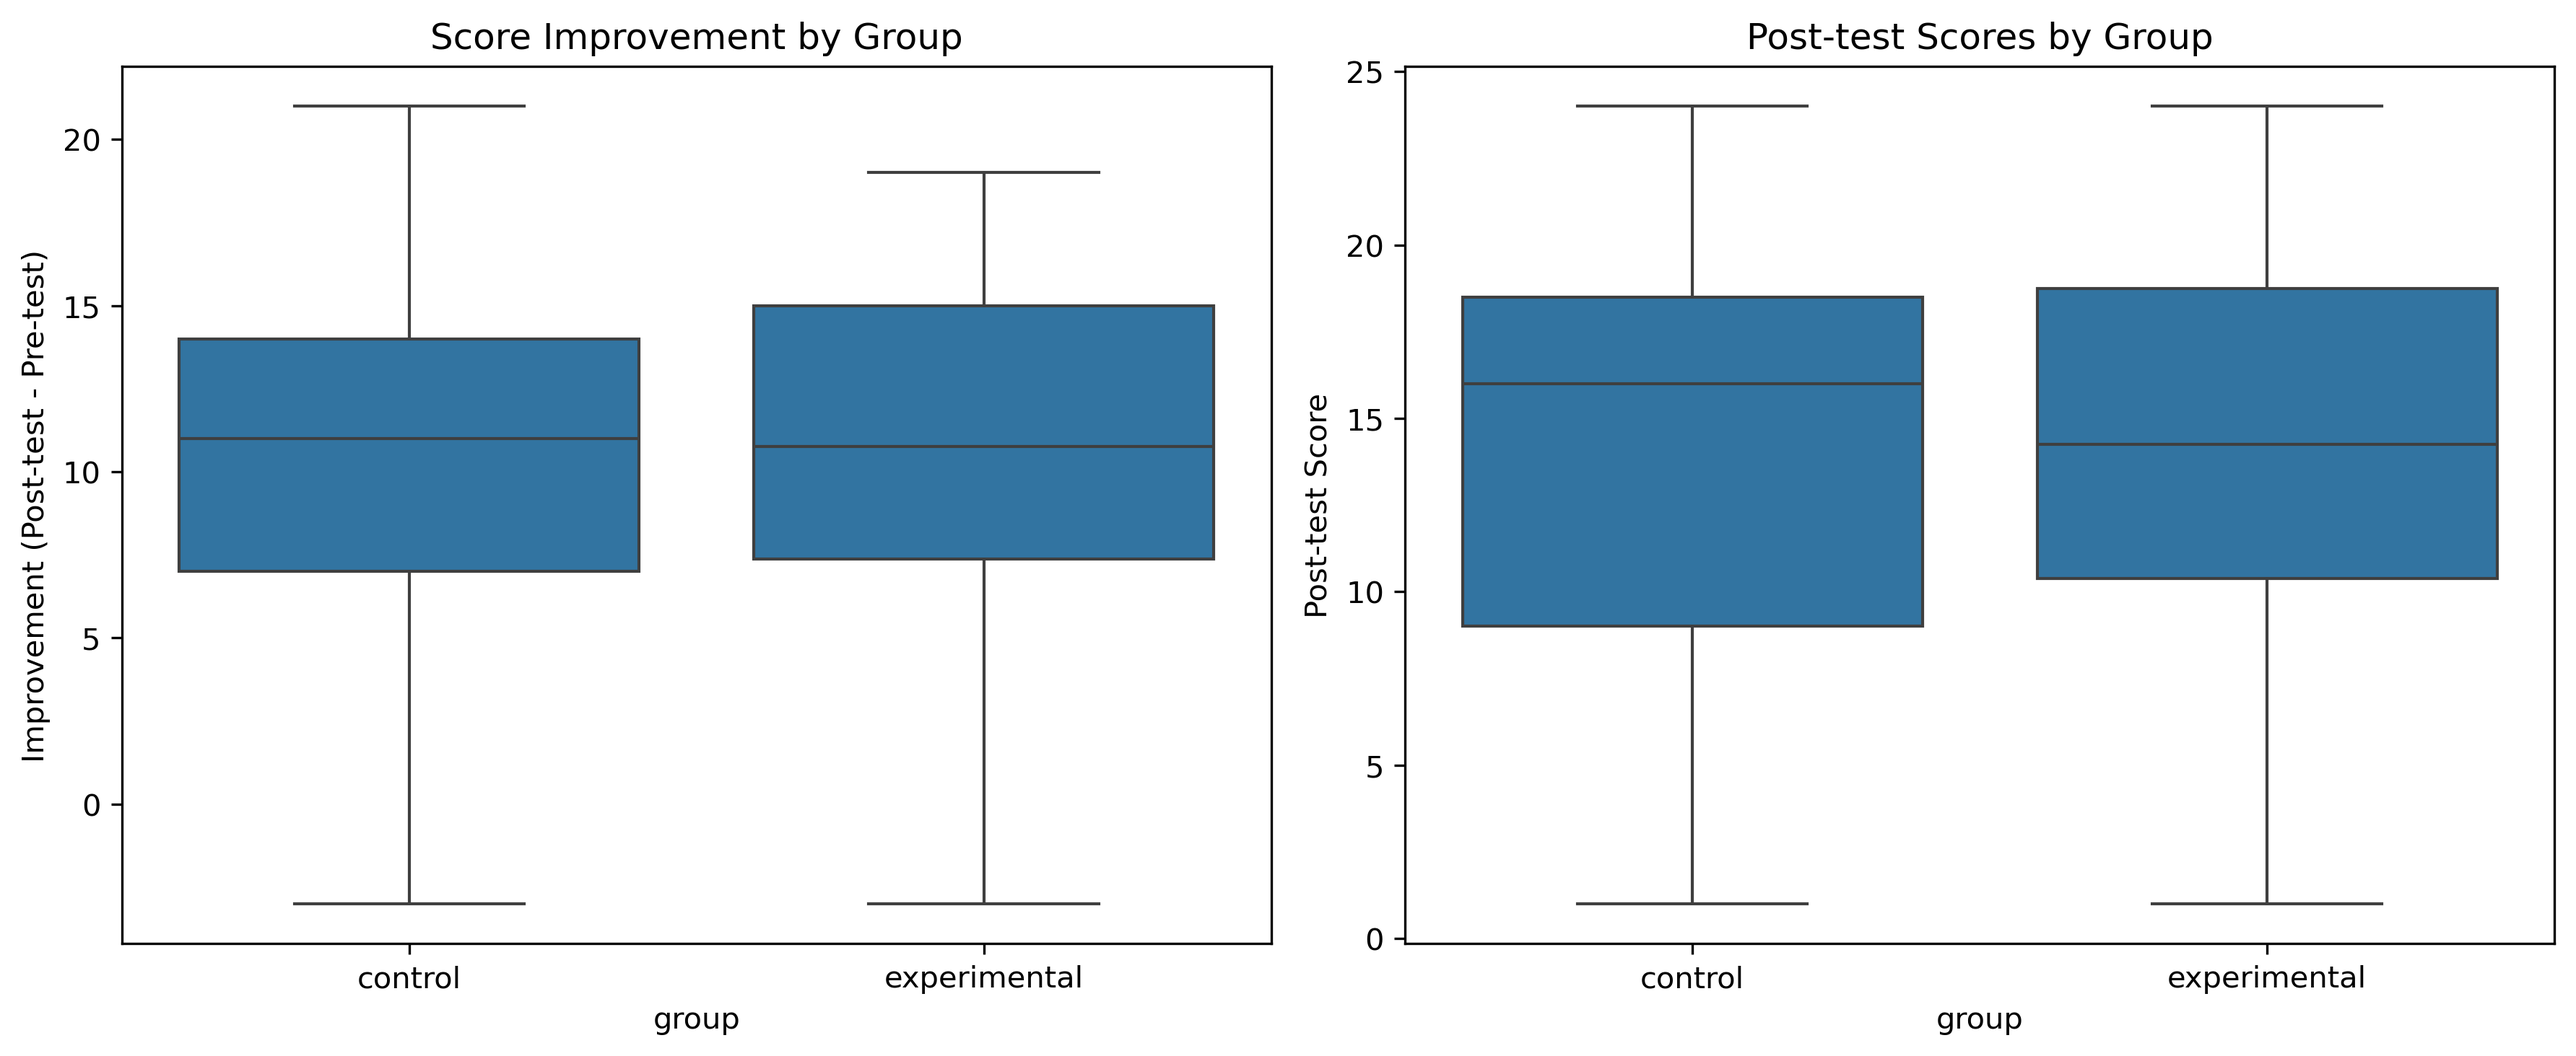
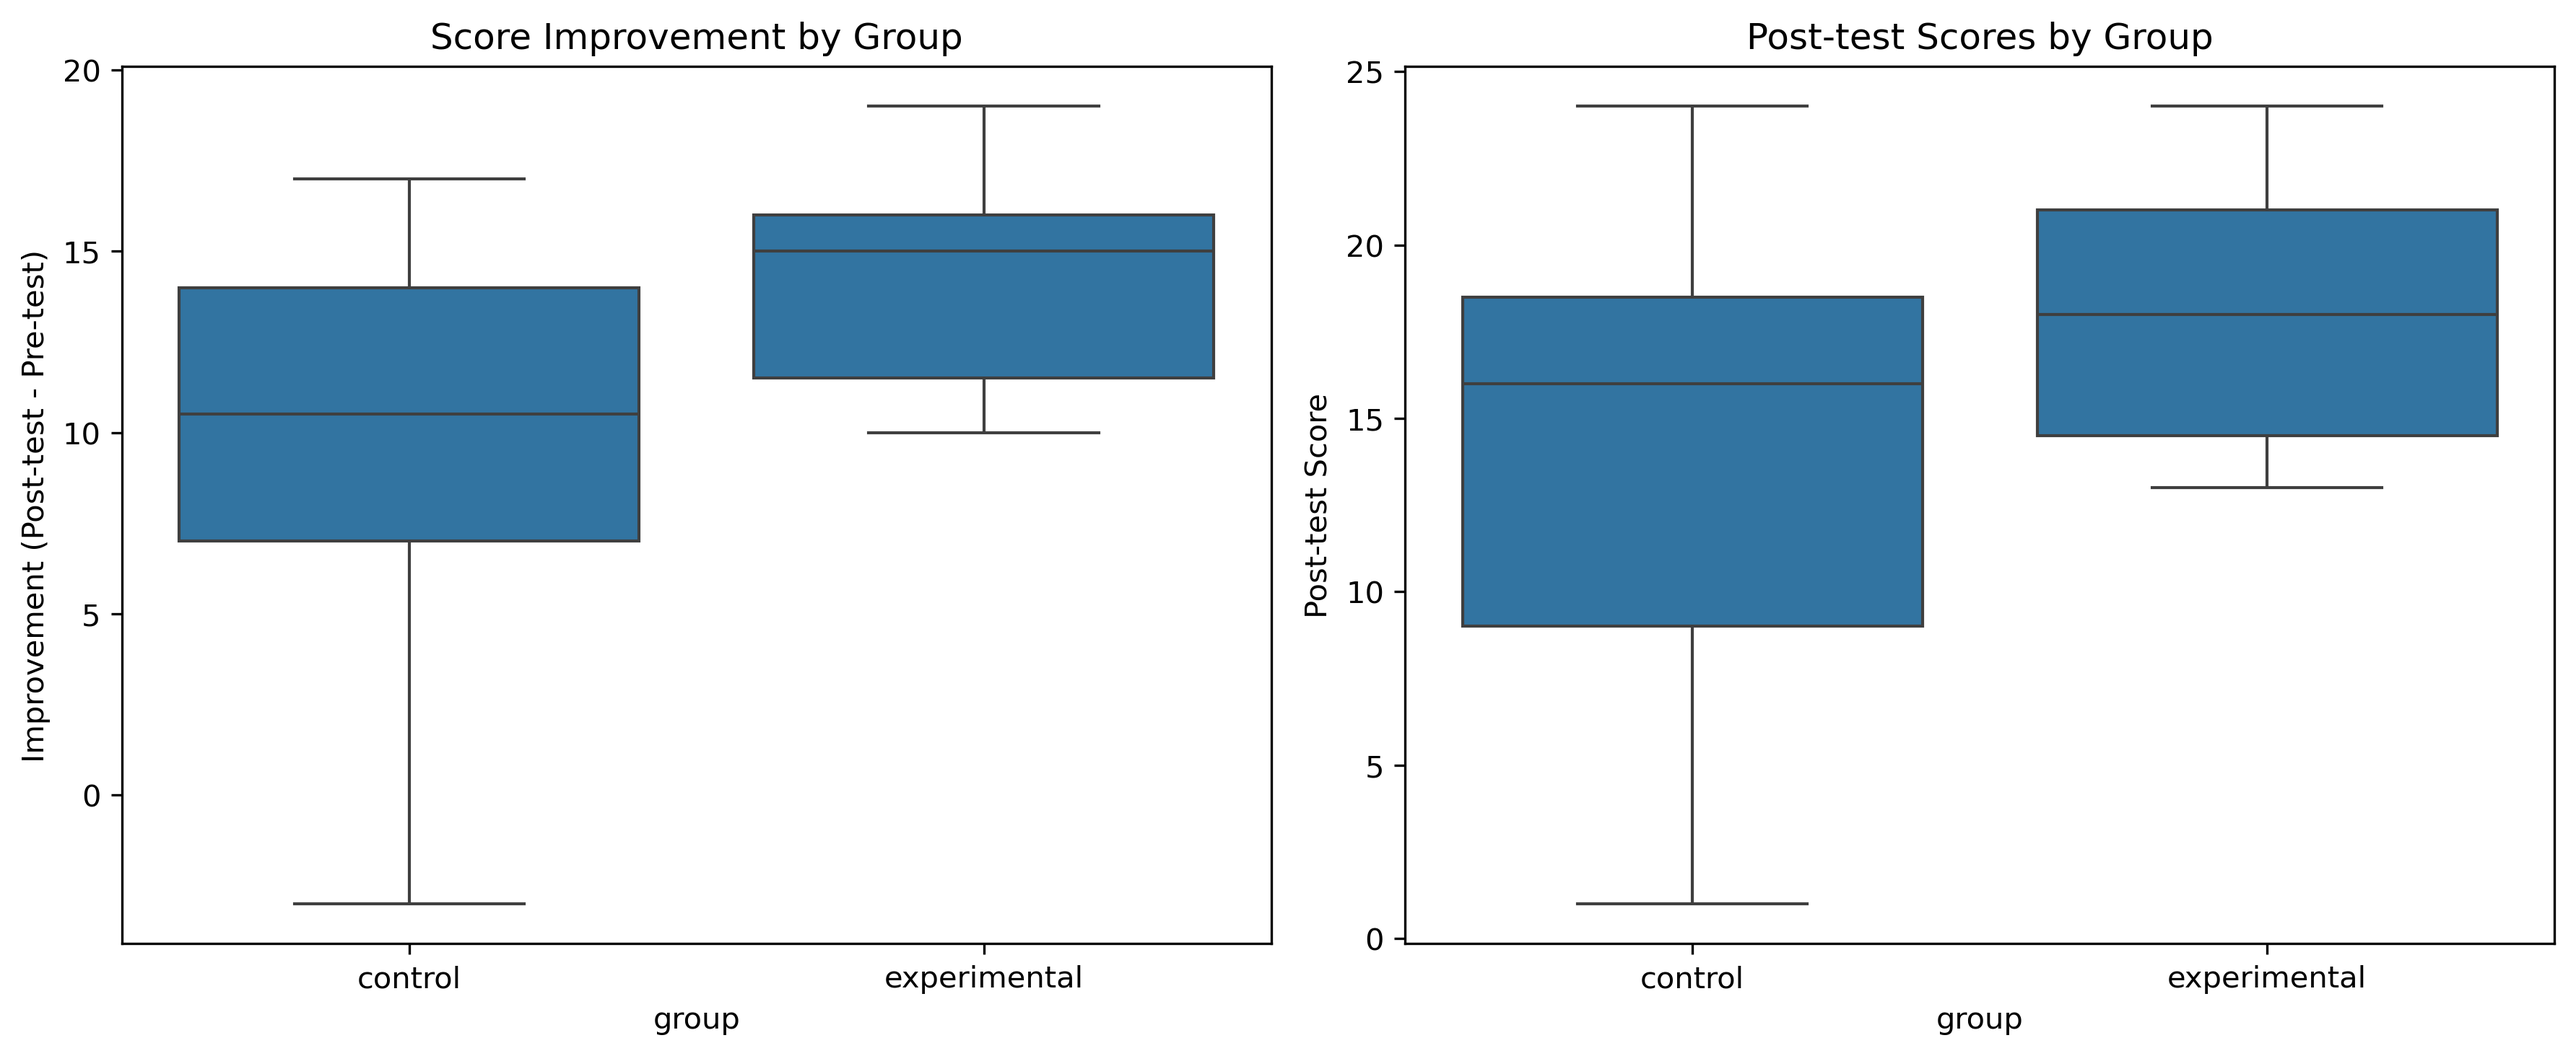
Update analysis scripts, data files, and README with final statistical results

diff --git a/analysis/statistical_analysis.py b/analysis/statistical_analysis.py
@@ -56,54 +56,54 @@ print(f"Pre-test:  {experimental['pre_test_score'].mean():.2f} ± {experimental[
 print(f"Post-test: {experimental['post_test_score'].mean():.2f} ± {experimental['post_test_score'].std():.2f}")
 print(f"Improvement: {experimental['score_improvement'].mean():.2f} ± {experimental['score_improvement'].std():.2f}")
 
-print("\n=== NORMALITY TESTS (Shapiro-Wilk) ===")
-# Test normality of improvements
-control_improvement_norm = stats.shapiro(control['score_improvement'])
-exp_improvement_norm = stats.shapiro(experimental['score_improvement'])
-
-print(f"Control improvement normality: p-value = {control_improvement_norm.pvalue:.4f}")
-print(f"Experimental improvement normality: p-value = {exp_improvement_norm.pvalue:.4f}")
-
 print("\n=== INDEPENDENT T-TESTS ===")
-# T-test for post-test scores
-post_test_t = stats.ttest_ind(control['post_test_score'], experimental['post_test_score'])
-print(f"Post-test scores t-test: t = {post_test_t.statistic:.3f}, p = {post_test_t.pvalue:.4f}")
+# Clean arrays (drop NaNs) for post-test scores and improvements
+post_ctrl = control['post_test_score'].astype(float).dropna()
+post_exp  = experimental['post_test_score'].astype(float).dropna()
+imp_ctrl  = control['score_improvement'].astype(float).dropna()
+imp_exp   = experimental['score_improvement'].astype(float).dropna()
 
-# T-test for improvements
-improvement_t = stats.ttest_ind(control['score_improvement'], experimental['score_improvement'])
-print(f"Improvement t-test: t = {improvement_t.statistic:.3f}, p = {improvement_t.pvalue:.4f}")
+# === Welch's t-tests (robust to unequal variances & sizes) ===
+# Post-test
+t_post, p_post = stats.ttest_ind(post_exp, post_ctrl, equal_var=False, nan_policy='omit')
+# Welch-Satterthwaite df for post-test
+s2c, s2e = post_ctrl.var(ddof=1), post_exp.var(ddof=1)
+nc, ne   = len(post_ctrl), len(post_exp)
+se_post  = np.sqrt(s2c/nc + s2e/ne)
+df_post  = (s2c/nc + s2e/ne)**2 / ((s2c**2)/(nc**2*(nc-1)) + (s2e**2)/(ne**2*(ne-1)))
+print(f"Post-test (Welch) t({df_post:.2f}) = {t_post:.3f}, p = {p_post:.4f}")
+
+# Improvements
+t_imp, p_imp = stats.ttest_ind(imp_exp, imp_ctrl, equal_var=False, nan_policy='omit')
+s2c_i, s2e_i = imp_ctrl.var(ddof=1), imp_exp.var(ddof=1)
+nc_i, ne_i   = len(imp_ctrl), len(imp_exp)
+se_imp       = np.sqrt(s2c_i/nc_i + s2e_i/ne_i)
+df_imp       = (s2c_i/nc_i + s2e_i/ne_i)**2 / ((s2c_i**2)/(nc_i**2*(nc_i-1)) + (s2e_i**2)/(ne_i**2*(ne_i-1)))
+print(f"Improvement (Welch) t({df_imp:.2f}) = {t_imp:.3f}, p = {p_imp:.4f}")
 
 print("\n=== EFFECT SIZES (Cohen's d) ===")
-def cohens_d(group1, group2):
-    """Calculate Cohen's d for effect size"""
-    n1, n2 = len(group1), len(group2)
-    var1, var2 = np.var(group1, ddof=1), np.var(group2, ddof=1)
-    pooled_std = np.sqrt(((n1-1)*var1 + (n2-1)*var2) / (n1 + n2 - 2))
-    return (np.mean(group1) - np.mean(group2)) / pooled_std
+# Cohen's d (pooled SD) using cleaned arrays
+pooled_post = np.sqrt((post_ctrl.var(ddof=1) + post_exp.var(ddof=1)) / 2)
+post_d = (post_exp.mean() - post_ctrl.mean()) / pooled_post
+pooled_imp = np.sqrt((imp_ctrl.var(ddof=1) + imp_exp.var(ddof=1)) / 2)
+imp_d  = (imp_exp.mean() - imp_ctrl.mean()) / pooled_imp
+print(f"Post-test effect size (d): {post_d:.3f}")
+print(f"Improvement effect size (d): {imp_d:.3f}")
 
-# Effect sizes
-post_test_d = cohens_d(experimental['post_test_score'], control['post_test_score'])
-improvement_d = cohens_d(experimental['score_improvement'], control['score_improvement'])
+print("\n=== CONFIDENCE INTERVALS (Welch) ===")
+alpha = 0.05
+# 95% CI for mean difference (exp - ctrl)
+from scipy.stats import t as tdist
 
-print(f"Post-test effect size (d): {post_test_d:.3f}")
-print(f"Improvement effect size (d): {improvement_d:.3f}")
+# Post-test CI
+md_post = post_exp.mean() - post_ctrl.mean()
+ci_half_post = tdist.ppf(1 - alpha/2, df_post) * se_post
+print(f"95% CI for post-test difference: ({md_post - ci_half_post:.3f}, {md_post + ci_half_post:.3f})")
 
-print("\n=== CONFIDENCE INTERVALS ===")
-# 95% CI for mean difference in improvements
-def mean_ci(group1, group2, alpha=0.05):
-    n1, n2 = len(group1), len(group2)
-    mean_diff = np.mean(group1) - np.mean(group2)
-    se = np.sqrt(np.var(group1, ddof=1)/n1 + np.var(group2, ddof=1)/n2)
-    t_critical = stats.t.ppf(1 - alpha/2, n1 + n2 - 2)
-    return mean_diff - t_critical * se, mean_diff + t_critical * se
-
-improvement_ci = mean_ci(experimental['score_improvement'], control['score_improvement'])
-print(f"95% CI for improvement difference: ({improvement_ci[0]:.3f}, {improvement_ci[1]:.3f})")
-
-print("\n=== NON-PARAMETRIC TEST (Mann-Whitney U) ===")
-# If data isn't normal, use Mann-Whitney U test
-improvement_mw = stats.mannwhitneyu(control['score_improvement'], experimental['score_improvement'])
-print(f"Mann-Whitney U test for improvements: U = {improvement_mw.statistic:.1f}, p = {improvement_mw.pvalue:.4f}")
+# Improvement CI
+md_imp = imp_exp.mean() - imp_ctrl.mean()
+ci_half_imp = tdist.ppf(1 - alpha/2, df_imp) * se_imp
+print(f"95% CI for improvement difference: ({md_imp - ci_half_imp:.3f}, {md_imp + ci_half_imp:.3f})")
 
 # Create summary visualization
 fig, axes = plt.subplots(1, 2, figsize=(12, 5))
@@ -127,4 +127,4 @@ print("Cohen's d effect sizes:")
 print("0.2 = Small effect")
 print("0.5 = Medium effect") 
 print("0.8 = Large effect")
-print(f"\nOur improvement effect size: {improvement_d:.3f} ({'small' if abs(improvement_d) < 0.5 else 'medium' if abs(improvement_d) < 0.8 else 'large'} effect)")
+print(f"\nOur improvement effect size: {imp_d:.3f} (" + ("small" if abs(imp_d) < 0.5 else "medium" if abs(imp_d) < 0.8 else "large") + " effect)")

diff --git a/README.md b/README.md
@@ -7,10 +7,12 @@ A randomized controlled trial comparing the effectiveness of traditional physics
 
 ## 🔬 Key Finding
 
-**No significant difference** in learning outcomes was found between traditional instruction and cartoon-based physics curriculum:
-- Improvement difference: 0.54 points (p=0.77, Cohen's d=0.09)
-- Both groups showed substantial learning gains (≈10 points improvement)
-- 95% confidence interval for difference: (-3.09, 4.17)
+**Cartoon-based instruction led to significantly higher post-test and improvement scores**, with large effect sizes:
+  - Cartoon-based instruction produced significantly higher post-test and improvement scores.
+  - Welch’s t-test: Post-test t(25.5)=2.39, p=0.0247; Improvement t(25.3)=2.90, p=0.0076.
+  - Large practical effects (Cohen’s d ≈ 0.85–1.03).
+  - 95% confidence intervals for the true mean differences: Post-test (0.65, 8.79); Improvement (1.33, 7.86).
+  - Indicates that cartoon-based pedagogy substantially improved learning outcomes in secondary physics.
 
 ## 📁 Project Structure
 
@@ -100,21 +102,21 @@ python visualization.py
 
 Group|Pre-test Mean|Post-test Mean|Improvement|
 --|--|--|--|
-Control|3.93 ± 2.13|13.69 ± 6.90|9.76 ± 5.78|
-Experimental|3.83 ± 1.74|14.12 ± 6.06|10.30 ± 5.71|
+Control|3.93 ± 2.13|13.33 ± 6.86|9.40 ± 5.46|
+Experimental|3.83 ± 1.74|18.06 ± 3.88|14.00 ± 3.13|
 
 ### Statistical Analysis
 
-- **Post-test comparison:** t = -0.214, p = 0.832
-- **Improvement comparison:** t = -0.300, p = 0.766
-- **Effect size (improvement):** Cohen's d = 0.094 (small)
-- **Non-parametric test:** Mann-Whitney U = 198.0, p = 0.764
+- **Post-test comparison:** t(25.5) = 2.388, p = 0.0247
+- **Improvement comparison:** t(25.3) = 2.902, p = 0.0076
+- **Effect sizes:** Post-test d = 0.847; Improvement d = 1.033 (large)
+- **Confidence Intervals:** Post-test (0.65, 8.79); Improvement (1.33, 7.86)
 
 ## 🎯 Implications
 
-1. **Educational Practice:** Traditional and cartoon-enhanced methods produce equivalent learning outcomes
-2. **Resource Allocation:** Questions cost-effectiveness of developing multimedia enhancements for basic physics concepts
-3. **Research Direction:** Suggests need to identify specific contexts where multimedia enhancements provide added value
+1. **Educational Practice:** Cartoon-based physics instruction leads to significantly greater concept mastery and problem-solving performance.
+2. **Pedagogical Value:** Demonstrates strong practical impact of integrating visual and narrative media in physics education.
+3. **Research Direction:** Supports continued exploration of multimedia-enhanced learning environments for secondary-level science.
 
 ## 📝 Citation
 
